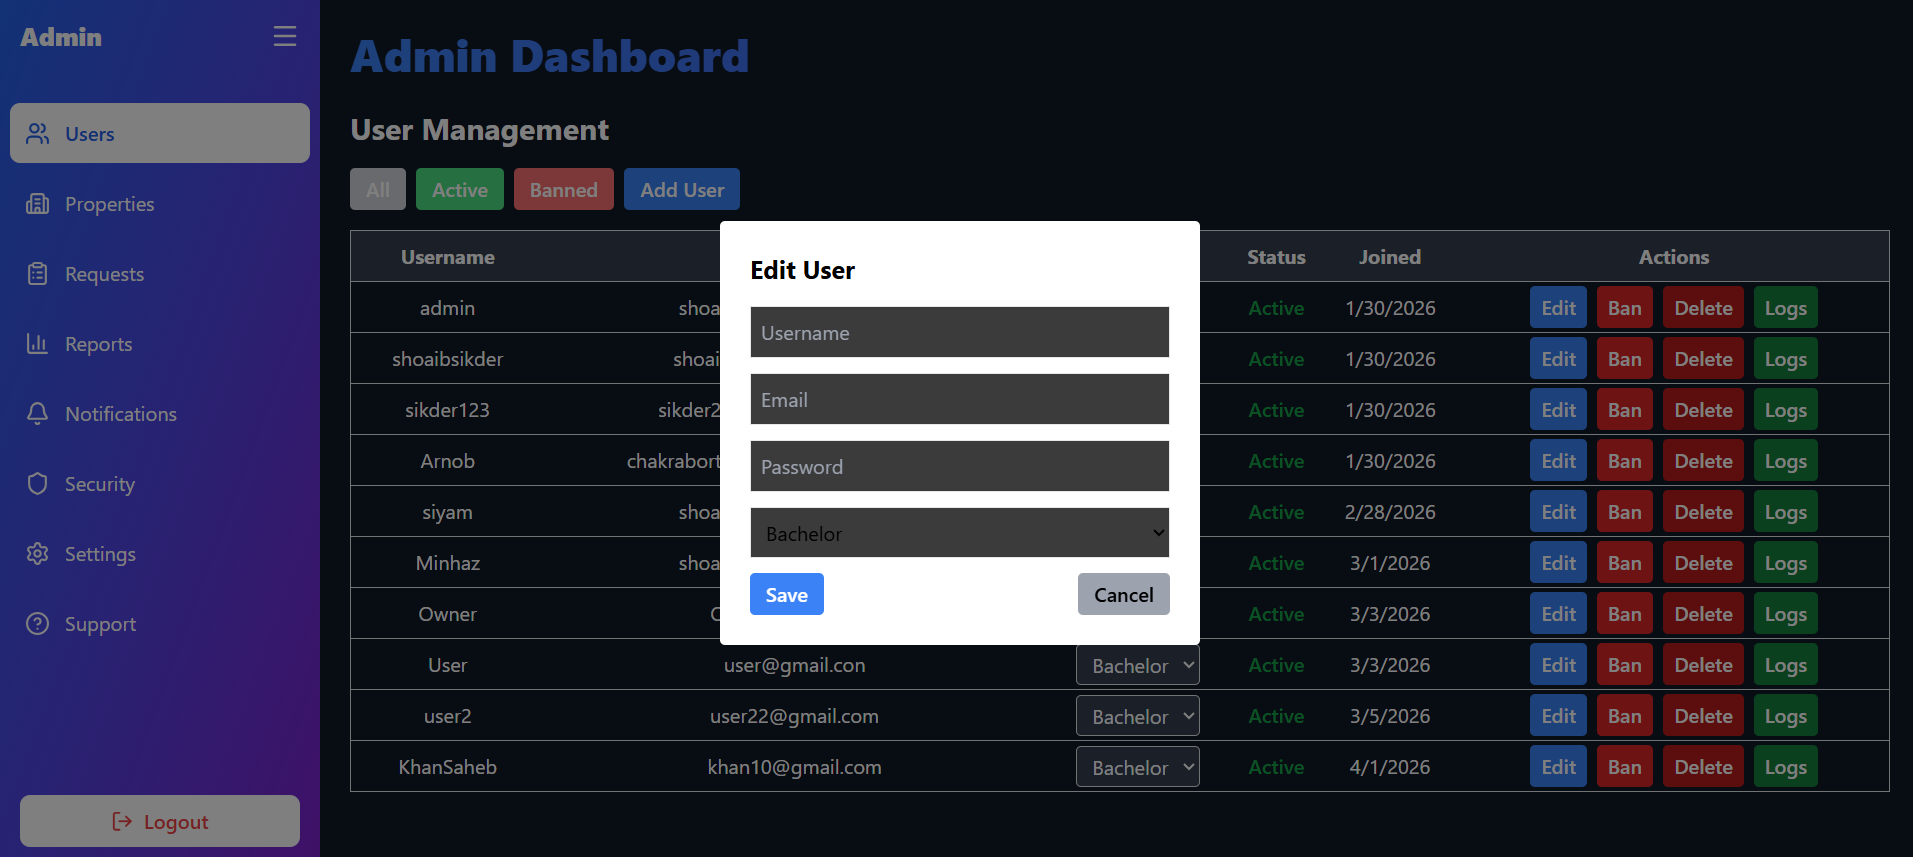
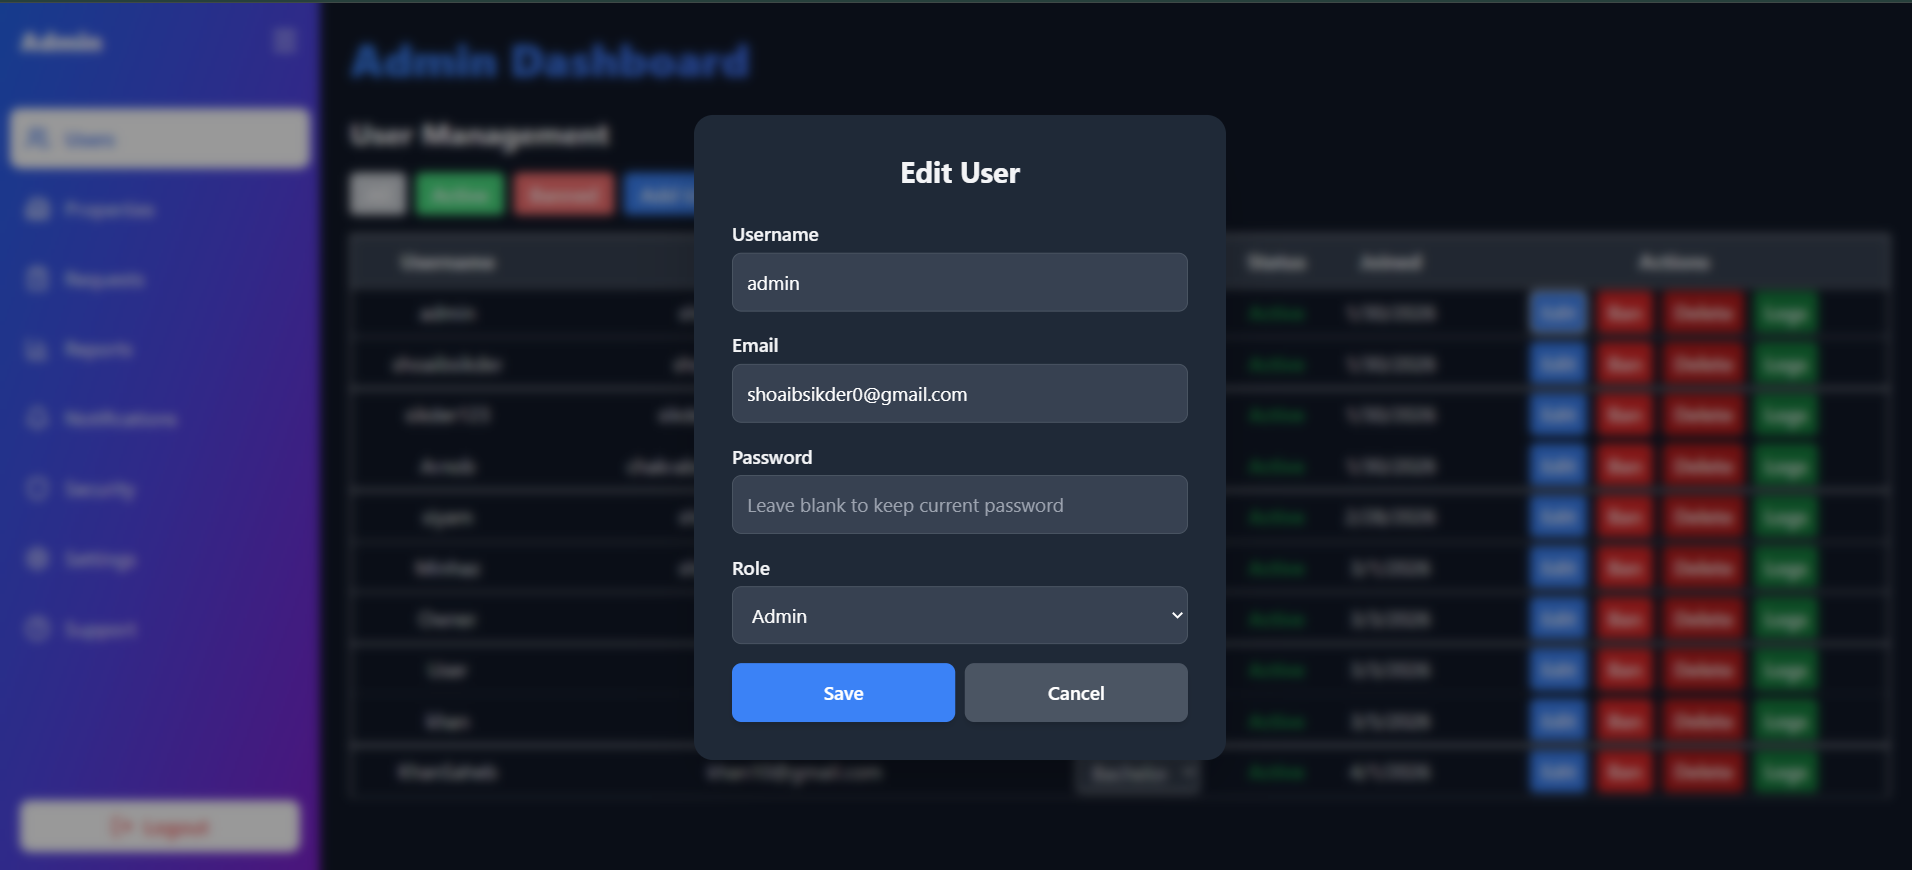
fixed the problem on admin edit property by giving permission to admin to edit

diff --git a/frontend/src/pages/admin/AdminUsers.jsx b/frontend/src/pages/admin/AdminUsers.jsx
@@ -27,6 +27,25 @@ const AdminUsers = () => {
     fetchUsers();
   }, []);
 
+  // Populate formData whenever a user is selected for edit
+  useEffect(() => {
+    if (selectedUser) {
+      setFormData({
+        username: selectedUser.username || "",
+        email: selectedUser.email || "",
+        password: "", // blank for security
+        role: selectedUser.role || "bachelor",
+      });
+    } else {
+      setFormData({
+        username: "",
+        email: "",
+        password: "",
+        role: "bachelor",
+      });
+    }
+  }, [selectedUser]);
+
   const fetchUsers = async () => {
     try {
       const res = await getUsers();
@@ -54,22 +73,29 @@ const AdminUsers = () => {
 
   const handleFormSubmit = async (e) => {
     e.preventDefault();
-    if (selectedUser) {
-      await editUser(selectedUser.id, formData);
-    } else {
-      await addUser(formData);
+    try {
+      if (selectedUser?.id) {
+        await editUser(selectedUser.id, formData);
+      } else {
+        await addUser(formData);
+      }
+      setSelectedUser(null);
+      fetchUsers();
+    } catch (err) {
+      console.error("Error saving user:", err);
     }
-    setSelectedUser(null);
-    fetchUsers();
   };
 
   const viewLogs = async (id) => {
     setLogsUserId(id);
-    const res = await getUserLogs(id);
-    setLogs(res.data);
+    try {
+      const res = await getUserLogs(id);
+      setLogs(res.data);
+    } catch (err) {
+      console.error("Failed to fetch logs", err);
+    }
   };
 
-  // Filtered users
   const filteredUsers = users.filter((u) => {
     if (filter === "active") return !u.is_banned;
     if (filter === "banned") return u.is_banned;
@@ -181,65 +207,84 @@ const AdminUsers = () => {
 
       {/* Add / Edit Modal */}
       {selectedUser !== null && (
-        <div className="fixed inset-0 bg-black/50 flex justify-center items-center z-50">
-          <div className="bg-white text-black p-6 rounded w-96">
-            <h2 className="text-xl font-bold mb-4">
+        <div className="fixed inset-0 bg-black/40 flex justify-center items-center z-50 backdrop-blur-sm">
+          <div className="bg-white dark:bg-gray-800 text-gray-900 dark:text-gray-100 p-8 rounded-2xl w-full max-w-md shadow-2xl transform transition-all scale-95 animate-fadeIn">
+            <h2 className="text-2xl font-bold mb-6 text-center">
               {selectedUser?.id ? "Edit User" : "Add User"}
             </h2>
-            <form className="space-y-3" onSubmit={handleFormSubmit}>
-              <input
-                type="text"
-                placeholder="Username"
-                value={formData.username}
-                onChange={(e) =>
-                  setFormData({ ...formData, username: e.target.value })
-                }
-                className="w-full border p-2"
-                required
-              />
-              <input
-                type="email"
-                placeholder="Email"
-                value={formData.email}
-                onChange={(e) =>
-                  setFormData({ ...formData, email: e.target.value })
-                }
-                className="w-full border p-2"
-                required
-              />
-              <input
-                type="password"
-                placeholder="Password"
-                value={formData.password}
-                onChange={(e) =>
-                  setFormData({ ...formData, password: e.target.value })
-                }
-                className="w-full border p-2"
-                required={!selectedUser.id}
-              />
-              <select
-                value={formData.role}
-                onChange={(e) =>
-                  setFormData({ ...formData, role: e.target.value })
-                }
-                className="w-full border p-2"
-              >
-                <option value="admin">Admin</option>
-                <option value="owner">Owner</option>
-                <option value="bachelor">Bachelor</option>
-              </select>
+            <form className="space-y-4" onSubmit={handleFormSubmit}>
+              <div className="flex flex-col">
+                <label className="mb-1 font-semibold">Username</label>
+                <input
+                  type="text"
+                  placeholder="Enter username"
+                  value={formData.username}
+                  onChange={(e) =>
+                    setFormData({ ...formData, username: e.target.value })
+                  }
+                  className="w-full border border-gray-300 dark:border-gray-600 rounded-lg p-3 focus:outline-none focus:ring-2 focus:ring-blue-400 dark:bg-gray-700 dark:text-white transition"
+                  required
+                />
+              </div>
 
-              <div className="flex justify-between">
+              <div className="flex flex-col">
+                <label className="mb-1 font-semibold">Email</label>
+                <input
+                  type="email"
+                  placeholder="Enter email"
+                  value={formData.email}
+                  onChange={(e) =>
+                    setFormData({ ...formData, email: e.target.value })
+                  }
+                  className="w-full border border-gray-300 dark:border-gray-600 rounded-lg p-3 focus:outline-none focus:ring-2 focus:ring-blue-400 dark:bg-gray-700 dark:text-white transition"
+                  required
+                />
+              </div>
+
+              <div className="flex flex-col">
+                <label className="mb-1 font-semibold">Password</label>
+                <input
+                  type="password"
+                  placeholder={
+                    selectedUser?.id
+                      ? "Leave blank to keep current password"
+                      : "Enter password"
+                  }
+                  value={formData.password}
+                  onChange={(e) =>
+                    setFormData({ ...formData, password: e.target.value })
+                  }
+                  className="w-full border border-gray-300 dark:border-gray-600 rounded-lg p-3 focus:outline-none focus:ring-2 focus:ring-blue-400 dark:bg-gray-700 dark:text-white transition"
+                  required={!selectedUser?.id}
+                />
+              </div>
+
+              <div className="flex flex-col">
+                <label className="mb-1 font-semibold">Role</label>
+                <select
+                  value={formData.role}
+                  onChange={(e) =>
+                    setFormData({ ...formData, role: e.target.value })
+                  }
+                  className="w-full border border-gray-300 dark:border-gray-600 rounded-lg p-3 focus:outline-none focus:ring-2 focus:ring-blue-400 dark:bg-gray-700 dark:text-white transition"
+                >
+                  <option value="admin">Admin</option>
+                  <option value="owner">Owner</option>
+                  <option value="bachelor">Bachelor</option>
+                </select>
+              </div>
+
+              <div className="flex justify-between items-center mt-6">
                 <button
                   type="submit"
-                  className="bg-blue-500 text-white px-3 py-1 rounded"
+                  className="flex-1 bg-blue-500 hover:bg-blue-600 transition text-white font-semibold px-4 py-3 rounded-lg mr-2 shadow-md"
                 >
                   {selectedUser?.id ? "Save" : "Add"}
                 </button>
                 <button
                   type="button"
                   onClick={() => setSelectedUser(null)}
-                  className="bg-gray-400 px-3 py-1 rounded"
+                  className="flex-1 bg-gray-300 dark:bg-gray-600 hover:bg-gray-400 dark:hover:bg-gray-500 transition text-gray-900 dark:text-white font-semibold px-4 py-3 rounded-lg shadow-md"
                 >
                   Cancel
                 </button>
@@ -251,26 +296,35 @@ const AdminUsers = () => {
 
       {/* Logs Modal */}
       {logsUserId && (
-        <div className="fixed inset-0 bg-black/50 flex justify-center items-center z-50">
-          <div className="bg-white text-black p-6 rounded w-96 max-h-[80vh] overflow-y-auto">
-            <h3 className="text-xl font-bold mb-4 text-black">User Logs</h3>
+        <div className="fixed inset-0 bg-black/40 flex justify-center items-center z-50 backdrop-blur-sm">
+          <div className="bg-white dark:bg-gray-800 text-gray-900 dark:text-gray-100 p-8 rounded-2xl w-full max-w-md shadow-2xl transform transition-all scale-95 animate-fadeIn max-h-[80vh] overflow-y-auto">
+            <h3 className="text-2xl font-bold mb-6 text-center">User Logs</h3>
+
             {logs.length === 0 ? (
-              <p className="text-black">No logs available for this user.</p>
+              <p className="text-center text-gray-600 dark:text-gray-300">
+                No logs available for this user.
+              </p>
             ) : (
-              <ul className="mb-4 space-y-2">
+              <ul className="mb-6 space-y-3">
                 {logs.map((log, i) => (
-                  <li key={i} className="text-black border-b pb-1">
-                    <span className="font-semibold">
-                      {new Date(log.timestamp).toLocaleString()}:
-                    </span>{" "}
-                    {log.action}
+                  <li
+                    key={i}
+                    className="flex justify-between items-start border-b border-gray-200 dark:border-gray-700 pb-2"
+                  >
+                    <span className="font-semibold text-gray-700 dark:text-gray-300">
+                      {new Date(log.timestamp).toLocaleString()}
+                    </span>
+                    <span className="text-gray-800 dark:text-gray-100 ml-2">
+                      {log.action}
+                    </span>
                   </li>
                 ))}
               </ul>
             )}
+
             <button
               onClick={() => setLogsUserId(null)}
-              className="px-3 py-1 bg-blue-600 text-white rounded"
+              className="w-full bg-blue-500 hover:bg-blue-600 transition text-white font-semibold px-4 py-3 rounded-lg shadow-md"
             >
               Close
             </button>

diff --git a/frontend/src/pages/admin/AdminProperties.jsx b/frontend/src/pages/admin/AdminProperties.jsx
@@ -370,33 +370,36 @@ const EditModal = ({ property, onClose, onSuccess }) => {
   };
 
   return (
-    <div className="fixed inset-0 bg-black/50 flex justify-center items-center z-50">
-      <div className="bg-white text-black p-6 rounded w-96">
-        <h2 className="text-xl font-bold mb-4">Edit Property</h2>
-        <form onSubmit={handleSubmit} className="space-y-3">
+    <div className="fixed inset-0 bg-black/40 flex justify-center items-center z-50 backdrop-blur-sm">
+      <div className="bg-white dark:bg-gray-800 text-gray-900 dark:text-gray-100 p-8 rounded-2xl w-full max-w-md shadow-2xl transform transition-all scale-95 animate-fadeIn max-h-[90vh] overflow-y-auto">
+        <h2 className="text-2xl font-bold mb-6 text-center">Edit Property</h2>
+        <form onSubmit={handleSubmit} className="space-y-4">
           <input
             name="title"
             value={form.title}
             onChange={handleChange}
-            className="w-full border p-2"
+            placeholder="Property Title"
+            className="w-full border border-gray-300 dark:border-gray-600 rounded-lg p-3 bg-gray-50 dark:bg-gray-700 text-gray-900 dark:text-gray-100 focus:outline-none focus:ring-2 focus:ring-blue-500"
           />
           <input
             name="location"
             value={form.location}
             onChange={handleChange}
-            className="w-full border p-2"
+            placeholder="Location"
+            className="w-full border border-gray-300 dark:border-gray-600 rounded-lg p-3 bg-gray-50 dark:bg-gray-700 text-gray-900 dark:text-gray-100 focus:outline-none focus:ring-2 focus:ring-blue-500"
           />
           <input
             name="rent"
             value={form.rent}
             onChange={handleChange}
-            className="w-full border p-2"
+            placeholder="Rent"
+            className="w-full border border-gray-300 dark:border-gray-600 rounded-lg p-3 bg-gray-50 dark:bg-gray-700 text-gray-900 dark:text-gray-100 focus:outline-none focus:ring-2 focus:ring-blue-500"
           />
           <select
             name="property_type"
             value={form.property_type}
             onChange={handleChange}
-            className="w-full border p-2"
+            className="w-full border border-gray-300 dark:border-gray-600 rounded-lg p-3 bg-gray-50 dark:bg-gray-700 text-gray-900 dark:text-gray-100 focus:outline-none focus:ring-2 focus:ring-blue-500"
           >
             <option value="flat">Flat</option>
             <option value="seat">Seat</option>
@@ -405,20 +408,27 @@ const EditModal = ({ property, onClose, onSuccess }) => {
             name="description"
             value={form.description}
             onChange={handleChange}
-            className="w-full border p-2"
+            placeholder="Description"
+            className="w-full border border-gray-300 dark:border-gray-600 rounded-lg p-3 bg-gray-50 dark:bg-gray-700 text-gray-900 dark:text-gray-100 focus:outline-none focus:ring-2 focus:ring-blue-500"
           />
-          <input type="file" multiple onChange={handleImageChange} />
-          <div className="flex justify-between">
+          <input
+            type="file"
+            multiple
+            onChange={handleImageChange}
+            className="text-gray-700 dark:text-gray-200"
+          />
+
+          <div className="flex justify-between mt-4">
             <button
               type="submit"
-              className="bg-blue-500 text-white px-3 py-1 rounded"
+              className="w-1/2 bg-blue-500 hover:bg-blue-600 transition text-white font-semibold px-4 py-3 rounded-lg shadow-md"
             >
               Update
             </button>
             <button
               type="button"
               onClick={onClose}
-              className="bg-gray-400 px-3 py-1 rounded"
+              className="w-1/2 ml-2 bg-gray-400 hover:bg-gray-500 transition text-white font-semibold px-4 py-3 rounded-lg shadow-md"
             >
               Cancel
             </button>

diff --git a/backend/properties/views.py b/backend/properties/views.py
@@ -3,7 +3,7 @@ from rest_framework.permissions import IsAuthenticated
 from rest_framework.parsers import MultiPartParser, FormParser
 from .models import Property
 from .serializers import PropertySerializer, PropertyCreateUpdateSerializer
-from accounts.permissions import IsOwner, IsAdmin
+from accounts.permissions import IsOwner, IsAdmin, IsOwnerOrAdmin
 from django_filters.rest_framework import DjangoFilterBackend
 from rest_framework import filters
 from notifications.models import Notification
@@ -34,7 +34,7 @@ class OwnerPropertyListView(generics.ListAPIView):
 class PropertyUpdateDeleteView(generics.RetrieveUpdateDestroyAPIView):
     queryset = Property.objects.all()
     serializer_class = PropertyCreateUpdateSerializer  # Use create/update serializer to handle images
-    permission_classes = [IsAuthenticated, IsOwner]
+    permission_classes = [IsAuthenticated, IsOwnerOrAdmin]
     parser_classes = [MultiPartParser, FormParser]  # handle images
 
     def perform_update(self, serializer):

diff --git a/backend/accounts/permissions.py b/backend/accounts/permissions.py
@@ -13,3 +13,11 @@ class IsOwner(BasePermission):
 class IsAdmin(BasePermission):
     def has_permission(self, request, view):
         return request.user.is_authenticated and request.user.role == 'admin'
+    
+class IsOwnerOrAdmin(BasePermission):
+    """
+    Custom permission: allow owners or admins to edit/delete a property.
+    """
+    def has_object_permission(self, request, view, obj):
+        # If user is admin OR the owner of the property
+        return request.user.role == "admin" or obj.owner == request.user
